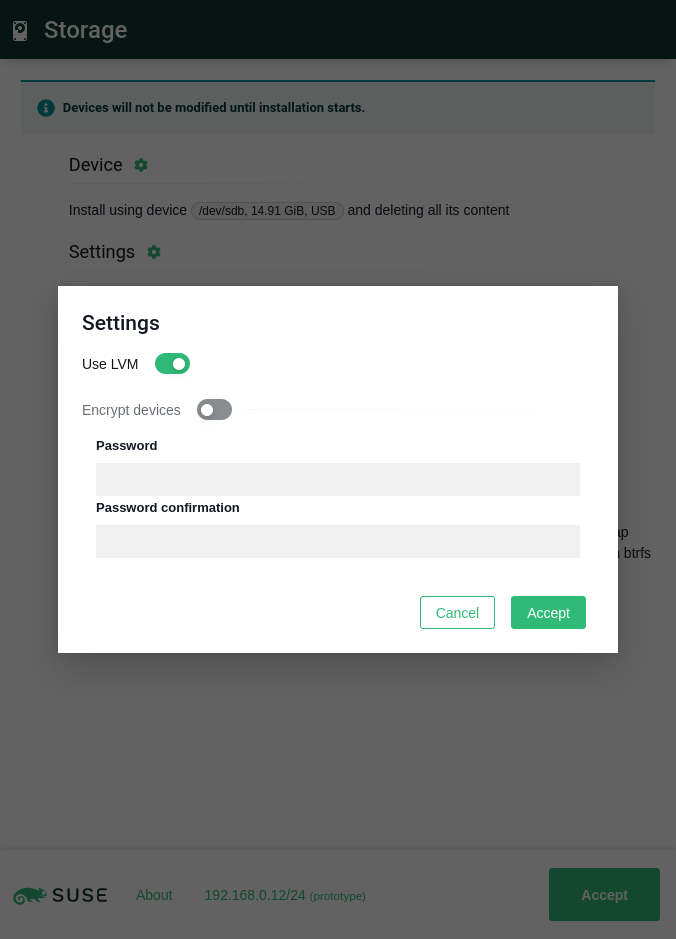
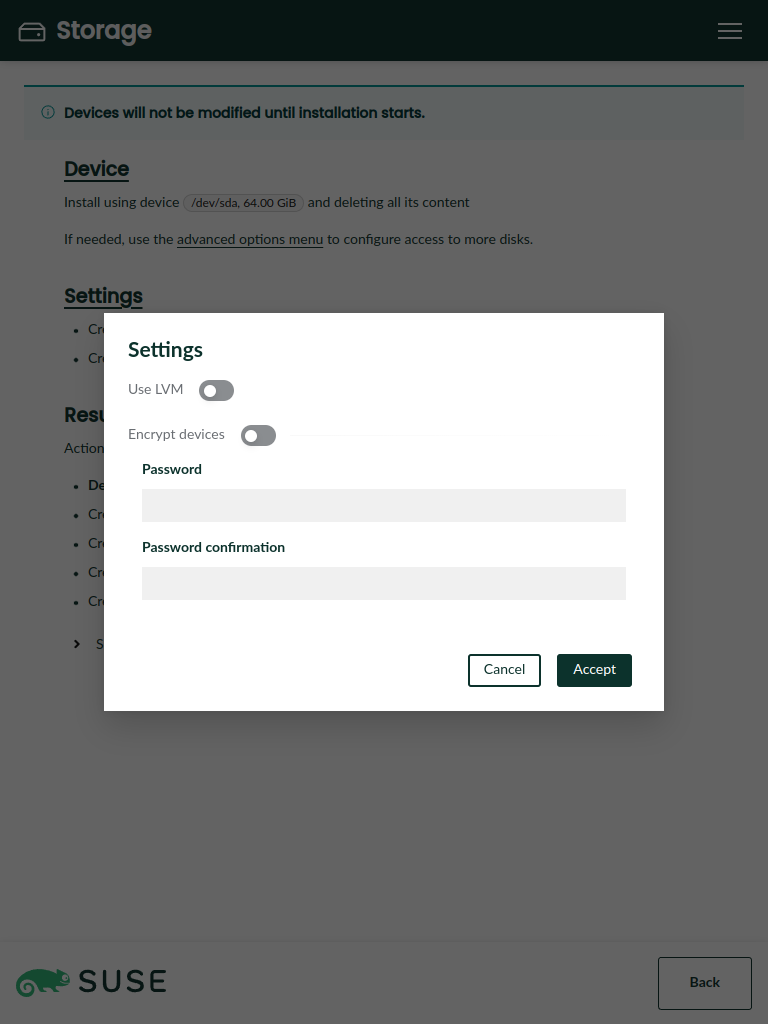
Updated screenshots, automate the process using Playwright (#504)
Updated screenshots, automate the process using Playwright

diff --git a/playwright/tests/take_screenshots.spec.ts b/playwright/tests/take_screenshots.spec.ts
@@ -1,0 +1,111 @@
+import { test, expect } from "@playwright/test";
+import { mainPagePath } from "../lib/installer";
+
+// This test was designed for collecting the screenshots for the main
+// README.md file. To take screenshots of the installation process run this:
+// 
+//   RUN_INSTALLATION=1 BASE_URL=https://<host>:9090 npx playwright test --headed take_screenshots
+// 
+// The "--headed" option shows the browser window so you can see the progress.
+// You can use the "--debug" option to run the test step-by-step.
+// The screenshots are saved to the "screenshots/" subdirectory.
+
+// minute in miliseconds
+const minute = 60 * 1000;
+
+test.describe("The Installer", () => {
+  test.beforeEach(async ({ page }) => {
+    await page.goto(mainPagePath());
+  });
+
+  test("installs the system", async ({ page }) => {
+    // maximum time for this test to run
+    test.setTimeout(60 * minute);
+
+    // set screenshot size to 768x1024
+    page.setViewportSize({ width: 768, height: 1024 });
+
+    // optional product selection
+    await test.step("Select the product", async () => {
+      // optional product selection
+      try {
+        await page.getByText("Product selection").waitFor({ timeout: 5000 });
+        // select openSUSE Tumbleweed
+        await page.getByText("openSUSE Tumbleweed").click();
+        await page.screenshot({ path: "screenshots/product-selection.png" });
+        await page.getByRole("button", { name: "Select" }).click();
+      }
+      catch (error) {
+        // do not ignore other errors
+        if (error.constructor.name !== "TimeoutError") throw(error);
+      }
+    });
+
+    // the the root password must be set
+    await test.step("Set the root password", async () => {
+      try {
+        await page.getByText("None authentication method").waitFor({ timeout: 10000 });
+        await page.locator("a[href='#/users']").click();
+        await page.locator("#actions-for-root-password").click();
+        await page.getByRole("menuitem", { name: "Set" }).click();
+        await page.locator("#password").fill("linux");
+        await page.locator("#passwordConfirmation").fill("linux");
+        await page.locator('button[type="submit"]').click();
+        await page.getByText("Back").click();
+        }
+      catch (error) {
+        // do not ignore other errors
+        if (error.constructor.name !== "TimeoutError") throw(error);
+      }
+    });
+
+    // ensure the software proposal is ready, use longer timeout,
+    // refreshing the repositories takes some time
+    await expect(page.getByText("Installation will take")).toBeVisible({timeout: 2 * minute});
+    await page.screenshot({ path: "screenshots/overview.png" });
+
+    await test.step("Storage configuration", async () => {
+      // create storage page screenshot
+      await page.locator("a[href='#/storage']").click();
+      await expect(page.getByRole("button", { name: "Settings" })).toBeVisible();
+      await page.screenshot({ path: "screenshots/storage-page.png" });
+
+      // create storage settings screenshot
+      await page.getByRole("button", { name: "Settings" }).click();
+      await expect(page.locator("[role='dialog']")).toBeVisible();
+      await page.screenshot({ path: "screenshots/storage-settings.png" });
+      await page.getByRole("button", { name: "Cancel" }).click();
+      await page.getByText("Back").click();
+    });
+
+    // confirm the installation only when explicitly set via the environment
+    if (process.env.RUN_INSTALLATION === "1") {
+      await test.step("Run installation",  async () => {
+        // start the installation
+        await page.getByRole("button", { name: "Install", exact: true }).click();
+        await expect(page.getByText("Confirm Installation")).toBeVisible();
+        await page.getByRole("button", { name: "Continue" }).click();
+        
+        // wait for the package installation progress
+        await expect(page.getByText("Installing packages")).toBeVisible({timeout: 5 * minute});
+
+        // create package installation screenshot every half a minute
+        let screenshot_index = 0;
+        while (true) {
+          await page.screenshot({ path: `screenshots/installation_${screenshot_index++}.png` });
+          
+          try {
+            await page.getByRole("heading", { name: "Congratulations!" }).waitFor({timeout: minute / 2});
+            // the finish screen is displayed
+            await page.screenshot({ path: "screenshots/finished.png" });
+            break;
+          }
+          catch (error) {
+            // do not ignore other errors
+            if (error.constructor.name !== "TimeoutError") throw(error);
+          }
+        }
+      });
+    }
+  });
+})

diff --git a/playwright/playwright.config.ts b/playwright/playwright.config.ts
@@ -27,15 +27,17 @@ const config: PlaywrightTestConfig = {
   forbidOnly: !!process.env.CI,
   /* Retry on CI only */
   retries: process.env.CI ? 2 : 0,
-  /* Opt out of parallel tests on CI. */
-  workers: process.env.CI ? 1 : undefined,
+  /* Because of test dependencies or race conditions run all tests in sequence, */
+  /* later we could use a serial-parallel approach using the test lists, */
+  /* see https://playwright.dev/docs/test-parallel#use-a-test-list-file */
+  workers: 1,
   /* Reporter to use. See https://playwright.dev/docs/test-reporters */
   reporter: process.env.GITHUB_ACTIONS ? 'github' : 'list',
   globalSetup: require.resolve('./global-setup'),
   /* Shared settings for all the projects below. See https://playwright.dev/docs/api/class-testoptions. */
   use: {
     /* Maximum time each action such as `click()` can take. Defaults to 0 (no limit). */
-    actionTimeout: 0,
+    actionTimeout: 30000,
     /* Base URL to use in actions like `await page.goto('/')`. */
     baseURL: process.env.BASE_URL || 'http://localhost:9090',
 

diff --git a/playwright/README.md b/playwright/README.md
@@ -39,6 +39,22 @@ To run just a specific test:
 npx playwright test tests/root_password.spec.ts
 ```
 
+## Updating the Screenshots
+
+There is one test specially designed for refreshing the screenshots displayed
+in the main `README.md` file.
+
+To fully run the installation type this:
+
+```
+RUN_INSTALLATION=1 BASE_URL=https://<host>:9090 npx playwright test --headed take_screenshots
+```
+
+The `--headed` option shows the browser window so you can see the progress.
+You can use the `--debug` option to run the test step-by-step.
+
+The screenshots are saved to the `screenshots/` subdirectory.
+
 ## Target Server
 
 By default the tests use the installer instance running locally at

diff --git a/README.md b/README.md
@@ -23,6 +23,9 @@ D-Installer is a new Linux installer born in the core of the YaST team. It is de
 |-|-|
 | ![Installing](./doc/images/screenshots/installing.png) | ![Installation finished](./doc/images/screenshots/finished.png) |
 
+*Note for developers: For updating the screenshots see the
+[integration test documentation](playwright/README.md#updating-the-screenshots).*
+
 </details>
 
 ## Table of Content
